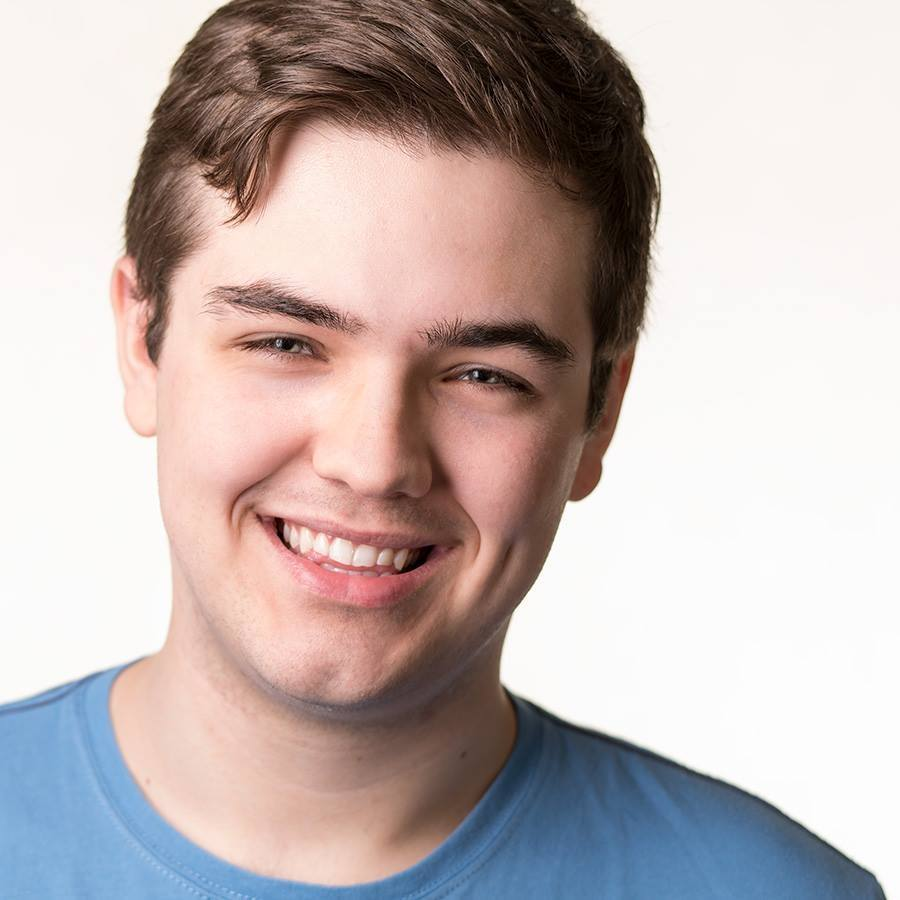
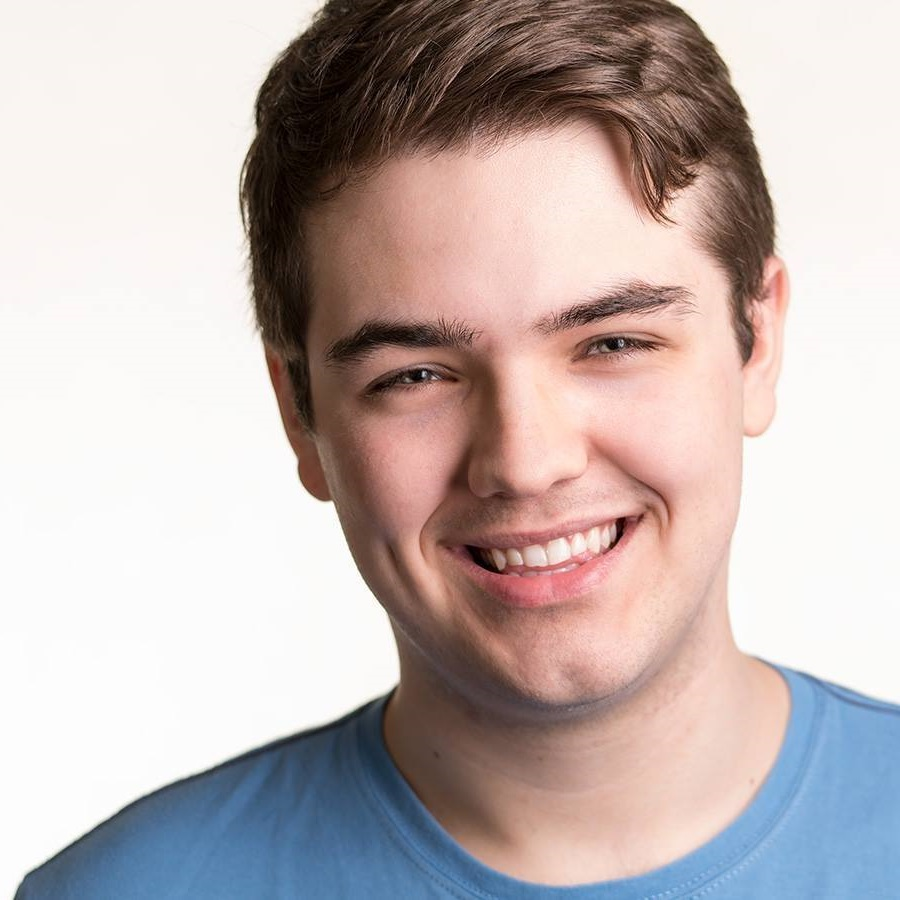
Fixed Asset issues

diff --git a/index.html b/index.html
@@ -3,7 +3,7 @@
     <head>
         <meta charset="utf-8">
         <title>Jack's Programming Portfolio Website</title>
-        <link rel="stylesheet" href="assets/css/custom-styles.css">
+        <link rel="stylesheet" href="docs/assets/css/custom-styles.css">
         <meta name="viewport" content="width-device-width, initial-scale=1.0">
     </head>
     <body>

diff --git a/docs/assets/css/custom-styles.css b/docs/assets/css/custom-styles.css
@@ -117,7 +117,10 @@ section .content {
 }
 
 .about{
-    background-image: url(assets/images/jack.jpg);
+    background-image: url(../img/jack.jpg);
+    background-position: right center;
+
+    background-size: cover;
 }
 
 
